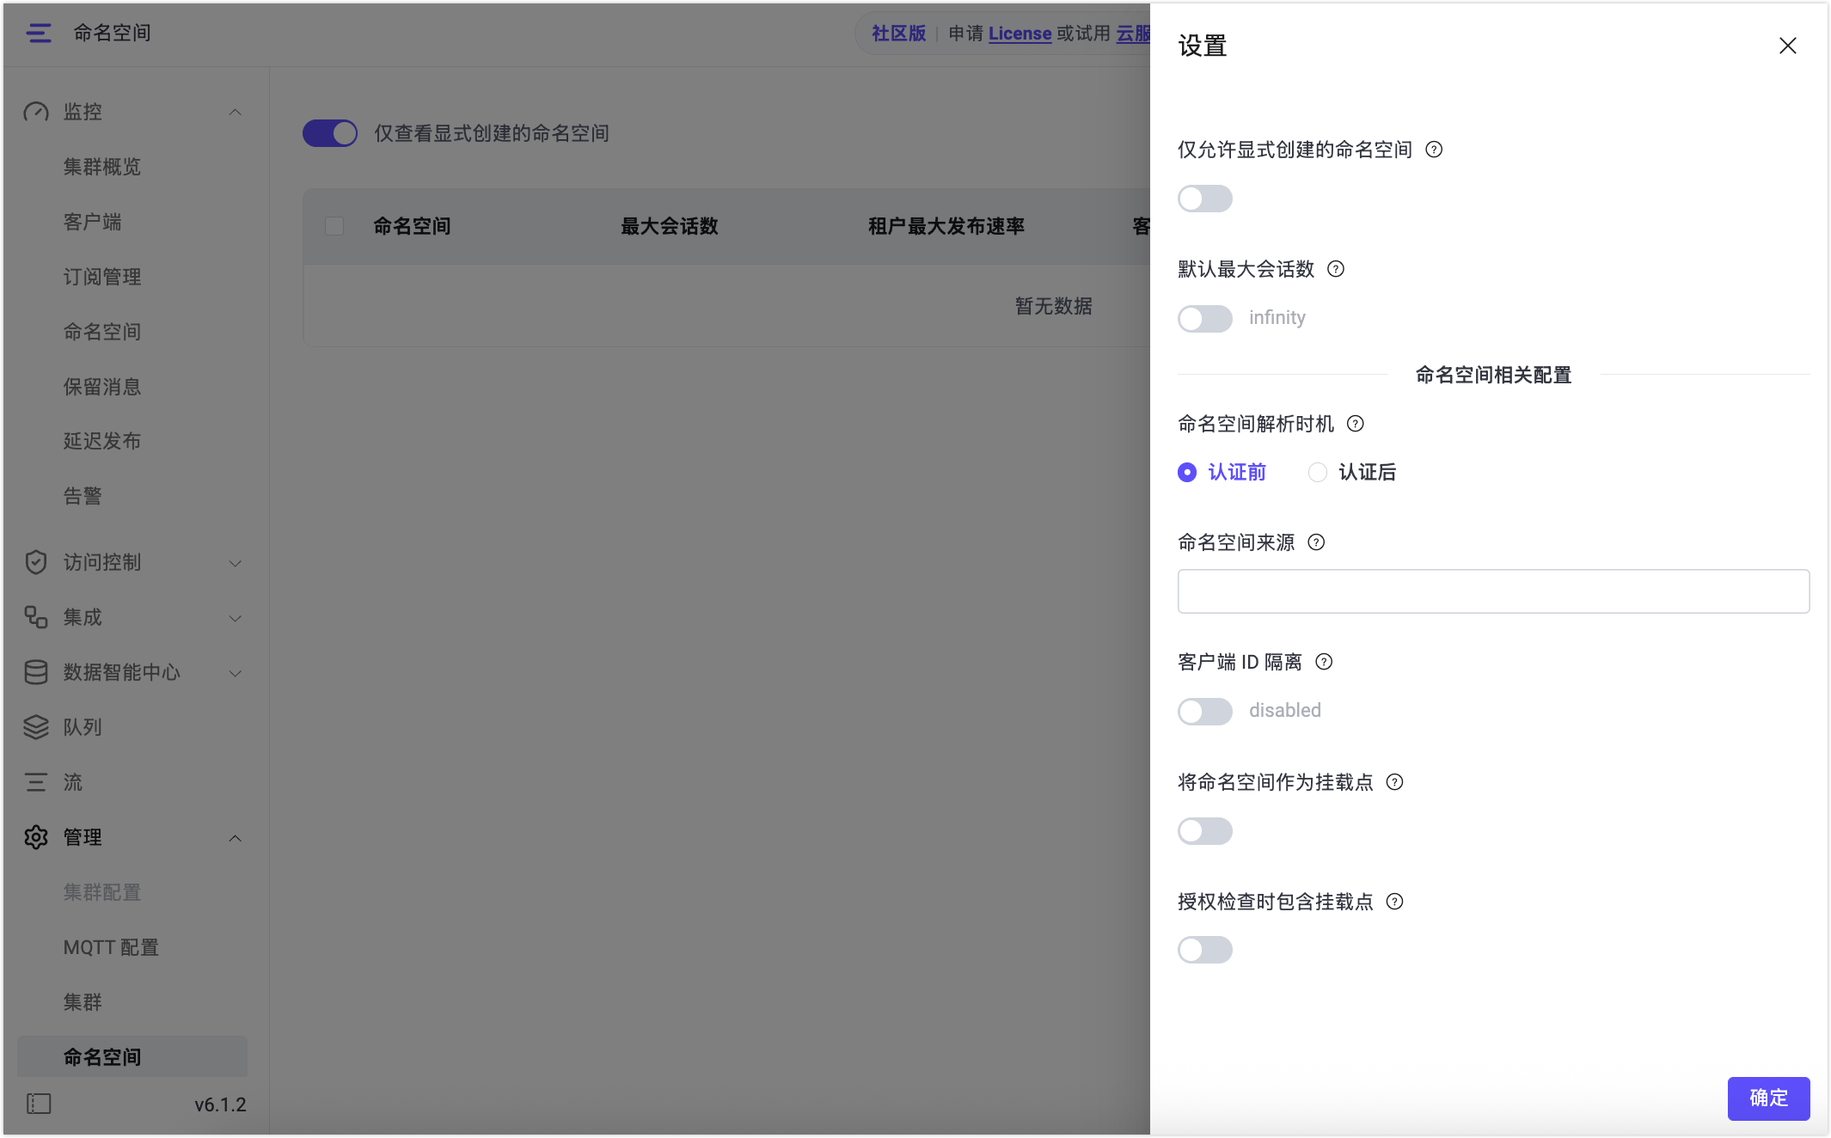
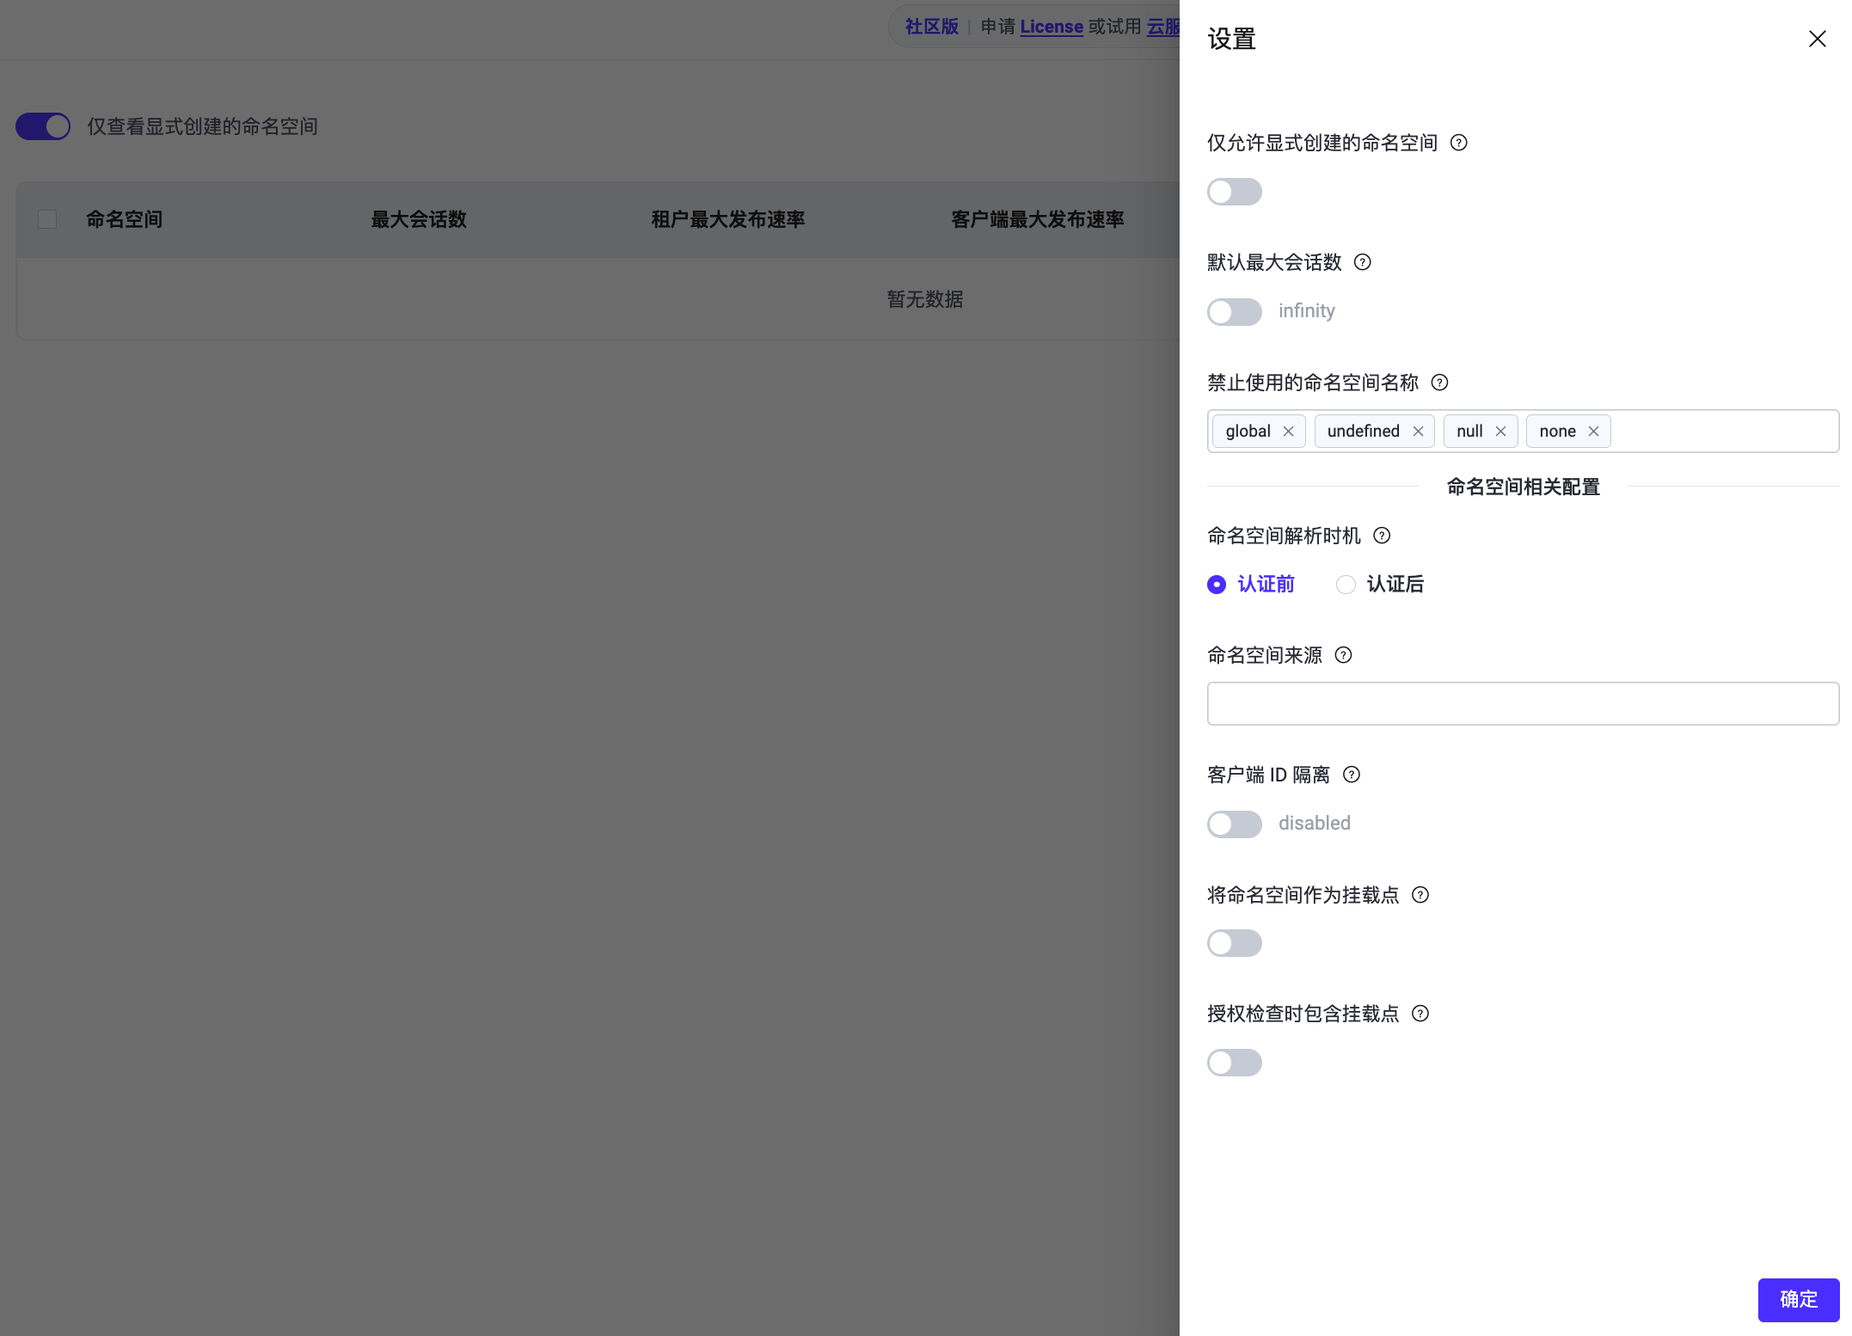
update(namespace): Add namespace name restrictions
https://github.com/emqx/emqx/pull/17626/files

diff --git a/en_US/multi-tenancy/namespace-global-settings.md b/en_US/multi-tenancy/namespace-global-settings.md
@@ -4,7 +4,7 @@ In EMQX 6.1, in addition to configuring individual namespace instances, a set of
 
 These settings apply cluster-wide and affect all namespaces and client connections. They are typically configured before enabling and using namespace-related features.
 
-Global namespace settings can be managed through the Dashboard at: **Management -> Namespaces -> Settings**.
+Global namespace settings can be managed through the Dashboard at: **Management** -> **Namespace** -> **Settings**.
 
 ::: tip Note
 
@@ -14,11 +14,11 @@ To enable the corresponding isolation capabilities, you must explicitly turn the
 
 :::
 
-![namespace_global_settings](./assets/namespace_global_settings.png)
+![Global namespace settings, including denied namespace names](./assets/namespace_global_settings.png)
 
 ## Allow Only Explicitly Created Namespaces
 
-This setting controls whether clients are allowed to connect only to namespaces that have been explicitly created.
+This setting controls whether clients are allowed to connect only to namespaces that have been explicitly created. It corresponds to `multi_tenancy.allow_only_managed_namespaces` in the configuration file.
 
 When this setting is enabled, EMQX validates the client’s namespace during the connection process and decides whether to allow or reject the connection.
 
@@ -31,7 +31,7 @@ When this setting is enabled, EMQX validates the client’s namespace during the
 
 ::: tip Note
 
-Before disabling this setting, ensure that **Take Namespace From** is properly configured and that all valid clients can successfully resolve a namespace. Otherwise, clients may be rejected because their namespace cannot be resolved.
+Before enabling this setting, ensure that **Take Namespace From** is properly configured and that all valid clients can successfully resolve an explicitly created namespace. Otherwise, clients may be rejected because their namespace cannot be resolved or has not been explicitly created.
 
 When **After Authentication** mode is selected under **When to Resolve Namespace**, pre-authentication namespace checks are skipped. The check against explicitly created namespaces runs after authentication completes instead.
 
@@ -48,6 +48,34 @@ This setting defines the default maximum number of concurrent sessions for newly
 
 This setting applies only to namespaces created after the configuration takes effect. Existing namespaces are not affected and must be updated individually if needed.
 
+## Denied Namespace Names
+
+Starting from EMQX 6.3.0, `multi_tenancy.deny_namespaces` specifies names that cannot be used as namespace identifiers. The restriction applies to Dashboard user roles, API keys, namespace creation and bulk imports through the management API, and client namespace assignment through `client_attrs.tns`.
+
+The default list is `["global", "undefined", "null", "none"]`. These names can be confused with internal identifiers in logs and Dashboard output.
+
+To edit the list in the Dashboard:
+
+1. Go to **Management** -> **Namespace** -> **Settings**.
+2. In **Denied Namespace Names**, add or remove names as needed. Clear all entries to disable the name restriction.
+3. Click **Confirm** to apply the changes.
+
+You can also configure the list in `etc/base.hocon`. The following example shows the default value:
+
+```hocon
+multi_tenancy.deny_namespaces = ["global", "undefined", "null", "none"]
+```
+
+A custom list replaces the default list. Include any default names you still want to deny. Set `multi_tenancy.deny_namespaces = []` to disable the name restriction. For configuration file precedence, see [Config Override Rules](../configuration/configuration.md#config-override-rules).
+
+EMQX rejects a client connection with `not_authorized` if its resolved namespace is in the list, even when **Allow Only Explicitly Created Namespaces** is disabled. This restriction does not prevent clients without a namespace from connecting when `multi_tenancy.allow_only_managed_namespaces = false`.
+
+::: warning Important Notice
+
+The default list rejects names accepted before EMQX 6.3.0. EMQX does not automatically migrate namespaces that use these names. Before upgrading, change the affected namespace names or adjust `multi_tenancy.deny_namespaces` to allow them.
+
+:::
+
 ## When to Resolve Namespace
 
 This setting controls at which point in the connection lifecycle EMQX resolves the client’s namespace identifier.
@@ -59,7 +87,7 @@ EMQX supports two modes, selectable via the **When to Resolve Namespace** radio 
 
 ::: tip
 
-These two modes are mutually exclusive. If **After Authentication** is configured, it takes precedence and overrides any pre-authentication `tns` value derived from `mqtt.client_attrs_init`.
+If **After Authentication** is configured, EMQX uses the post-authentication expression to assign the namespace. A pre-authentication `tns` value is not used as a fallback if that expression renders empty or fails. See [Empty or Failed Post-authentication Expressions](#empty-or-failed-post-authentication-expressions).
 
 :::
 
@@ -119,11 +147,14 @@ coalesce(client_attrs.tag, username)
 
 With this configuration, EMQX waits for the authentication chain to complete, then reads the `tag` value from the merged `client_attrs` and assigns it as the namespace identifier.
 
-::: tip
+### Empty or Failed Post-authentication Expressions
 
-If the expression renders to an empty string, the existing `tns` value (if any) is kept. If the expression produces an error, a warning is logged, and the client is treated as having no namespace.
+When `multi_tenancy.post_auth_tns_expression` is configured but evaluates to an empty string or fails, EMQX handles the connection as follows. Evaluation failures also produce a warning log.
 
-:::
+1. If the pre-authentication `client_attrs.tns` value is in `multi_tenancy.deny_namespaces`, EMQX rejects the connection with `not_authorized`.
+2. Otherwise, EMQX treats the client as having no namespace:
+   - If `multi_tenancy.allow_only_managed_namespaces = true`, EMQX rejects the connection with `not_authorized`.
+   - If `multi_tenancy.allow_only_managed_namespaces = false`, EMQX removes any pre-authentication `tns` value and allows the client to connect without a namespace.
 
 ## Client ID Isolation
 

diff --git a/zh_CN/multi-tenancy/namespace-global-settings.md b/zh_CN/multi-tenancy/namespace-global-settings.md
@@ -14,11 +14,11 @@
 
 :::
 
-![namespace_global_settings](./assets/namespace_global_settings.png)
+![全局命名空间设置，包括禁止使用的命名空间名称](./assets/namespace_global_settings.png)
 
 ## 仅允许显示创建的命名空间
 
-该配置用于控制客户端是否只能连接到已显式创建的命名空间。
+该配置用于控制客户端是否只能连接到已显式创建的命名空间，在配置文件中对应 `multi_tenancy.allow_only_managed_namespaces`。
 
 当启用该配置时，EMQX 会在客户端连接阶段对命名空间进行校验，并据此决定是否允许连接。
 
@@ -31,7 +31,7 @@
 
 ::: tip 提示
 
-关闭该配置前，请确保已正确配置**命名空间来源**，并且所有合法客户端都能够解析出有效的命名空间标识。否则，客户端可能因无法解析命名空间而被拒绝连接。
+启用该配置前，请确保已正确配置**命名空间来源**，并且所有合法客户端都能够解析出已显式创建的命名空间。否则，客户端可能因无法解析命名空间或命名空间尚未显式创建而被拒绝连接。
 
 当**命名空间解析时机**设置为**认证后**时，认证前的命名空间校验将被跳过，对显式创建命名空间的检查将在认证完成后执行。
 
@@ -46,6 +46,34 @@
 
 该配置仅对新创建的命名空间生效，不会影响已经存在的命名空间。已存在命名空间的最大会话数需在对应命名空间的配置中单独修改。
 
+## 禁止使用的命名空间名称
+
+从 EMQX 6.3.0 开始，`multi_tenancy.deny_namespaces` 用于指定不能用作命名空间标识的名称。该限制适用于 Dashboard 用户角色、API 密钥、通过管理 API 创建和批量导入命名空间，以及通过 `client_attrs.tns` 为客户端分配命名空间。
+
+默认列表为 `["global", "undefined", "null", "none"]`。这些名称在日志和 Dashboard 输出中容易与内部标识混淆。
+
+在 Dashboard 中编辑该列表：
+
+1. 进入**管理** -> **命名空间** -> **设置**。
+2. 在**禁止使用的命名空间名称**中，按需添加或移除名称。清空所有条目可关闭名称限制。
+3. 点击**确定**应用更改。
+
+您也可以在 `etc/base.hocon` 中配置该列表。以下示例使用默认值：
+
+```hocon
+multi_tenancy.deny_namespaces = ["global", "undefined", "null", "none"]
+```
+
+自定义列表会替换默认列表。如果仍需禁止某些默认名称，请将其保留在列表中。设置 `multi_tenancy.deny_namespaces = []` 可关闭名称限制。配置文件的优先级请参见[配置覆盖规则](../configuration/configuration.md#配置覆盖规则)。
+
+如果客户端解析出的命名空间在该列表中，EMQX 将拒绝连接并返回 `not_authorized`，即使已关闭**仅允许显式创建的命名空间**也是如此。当 `multi_tenancy.allow_only_managed_namespaces = false` 时，该名称限制不会阻止未分配命名空间的客户端连接。
+
+::: warning 重要提示
+
+默认列表会禁止使用 EMQX 6.3.0 之前允许的名称。EMQX 不会自动迁移使用这些名称的命名空间。升级前，请更换受影响的命名空间名称，或调整 `multi_tenancy.deny_namespaces` 以允许使用这些名称。
+
+:::
+
 ## 命名空间解析时机
 
 该设置控制 EMQX 在连接生命周期的哪个阶段解析客户端的命名空间标识。
@@ -57,7 +85,7 @@ EMQX 支持两种模式，可在 Dashboard 中通过**命名空间解析时机**
 
 ::: tip
 
-两种模式互斥。若配置了**认证后**模式，则以该模式的求值结果为准，`mqtt.client_attrs_init` 所设置的预认证 `tns` 值将被覆盖。
+若配置了**认证后**模式，EMQX 将使用认证后表达式分配命名空间。当该表达式求值为空或出错时，不会回退到认证前的 `tns` 值。详情请参见[认证后表达式为空或求值出错](#认证后表达式为空或求值出错)。
 
 :::
 
@@ -117,11 +145,14 @@ coalesce(client_attrs.tag, username)
 
 在该配置下，EMQX 等待认证链执行完毕后，从合并后的 `client_attrs` 中读取 `tag` 值，并将其赋值为命名空间标识。
 
-::: tip
+### 认证后表达式为空或求值出错
 
-若表达式的求值结果为空字符串，则保留已有的 `tns` 值（如有）。若表达式求值出错，则记录一条警告日志，并将该客户端视为无命名空间处理。
+配置 `multi_tenancy.post_auth_tns_expression` 后，如果表达式求值为空字符串或出错，EMQX 将按以下规则处理连接。求值出错时还会记录一条警告日志。
 
-:::
+1. 如果认证前的 `client_attrs.tns` 值在 `multi_tenancy.deny_namespaces` 列表中，EMQX 将拒绝连接并返回 `not_authorized`。
+2. 否则，EMQX 将客户端视为未分配命名空间：
+   - 当 `multi_tenancy.allow_only_managed_namespaces = true` 时，EMQX 拒绝连接并返回 `not_authorized`。
+   - 当 `multi_tenancy.allow_only_managed_namespaces = false` 时，EMQX 清除认证前的 `tns` 值（如有），允许客户端以无命名空间状态连接。
 
 ## 客户端 ID 隔离
 

diff --git a/zh_CN/multi-tenancy/create-namespace.md b/zh_CN/multi-tenancy/create-namespace.md
@@ -2,6 +2,8 @@
 
 创建命名空间有两种方式：显式创建和自动创建。通过这两种方式，您可以根据不同的需求灵活选择创建命名空间的方式。显式创建适用于需要严格控制的环境，而自动创建则适用于动态环境，减少了手动干预。
 
+从 EMQX 6.3.0 开始，这两种创建方式均不能使用 `multi_tenancy.deny_namespaces` 列表中的名称。默认列表和配置方法请参见[禁止使用的命名空间名称](./namespace-global-settings.md#禁止使用的命名空间名称)。
+
 ## 显式创建命名空间
 
 通过 Dashboard 或 REST API，您可以手动显式创建命名空间。显式创建的命名空间可以被直接管理、编辑和删除。
@@ -29,11 +31,13 @@ POST /mt/ns/<namespace>
 
 将 `<namespace>` 替换为所需的命名空间 ID，请求体为空。
 
+如果名称在 `multi_tenancy.deny_namespaces` 列表中，EMQX 将拒绝请求并返回 HTTP 400。
+
 ## 自动创建命名空间
 
 在 EMQX 中，命名空间也可以在客户端连接时自动创建。
 
-自动创建命名空间并非直接基于 `client_attrs.tns` 字段本身，而是依赖于**[命名空间来源](./namespace-global-settings.md#命名空间来源)**配置。当客户端连接到 EMQX 时，系统会根据已配置的命名空间来源规则，从客户端连接信息中生成 `tns`（租户命名空间）属性；如果对应的命名空间尚不存在，EMQX 将自动创建该命名空间。
+自动创建命名空间并非直接基于 `client_attrs.tns` 字段本身，而是依赖于**[命名空间来源](./namespace-global-settings.md#命名空间来源)**配置。当客户端连接到 EMQX 时，系统会根据已配置的命名空间来源规则，从客户端连接信息中生成 `tns`（租户命名空间）属性。如果解析出的名称在 `multi_tenancy.deny_namespaces` 列表中，EMQX 将拒绝连接并返回 `not_authorized`。否则，在允许自动创建且对应命名空间不存在时，EMQX 将自动创建该命名空间。
 
 **使用场景**：该方式适用于客户端连接来源可信、命名空间标识可从连接元数据中稳定提取，并且需要为大量租户或业务单元动态创建命名空间的场景。
 

diff --git a/en_US/multi-tenancy/create-namespace.md b/en_US/multi-tenancy/create-namespace.md
@@ -5,6 +5,8 @@ There are two ways to create a namespace in EMQX: explicit creation and automati
 - **Explicit creation** is suitable for tightly controlled environments.
 - **Automatic creation** is better for dynamic, large-scale deployments that benefit from reduced manual intervention.
 
+Starting from EMQX 6.3.0, names listed in `multi_tenancy.deny_namespaces` cannot be used for either creation method. For the default list and how to configure it, see [Denied Namespace Names](./namespace-global-settings.md#denied-namespace-names).
+
 ## Explicitly Create a Namespace
 
 You can manually create namespaces through the Dashboard or the REST API. Explicitly created namespaces can be directly managed, edited, and deleted.
@@ -29,13 +31,15 @@ POST /mt/ns/<namespace>
 
 Replace `<namespace>` with the desired namespace ID. No request body is required.
 
+If the name is in `multi_tenancy.deny_namespaces`, EMQX rejects the request with HTTP 400.
+
 ## Automatically Create a Namespace
 
 In EMQX, namespaces can also be created automatically when clients connect.
 
 Automatic namespace creation is not based directly on the `client_attrs.tns` field itself, but instead depends on the **[Take Namespace From](./namespace-global-settings)** configuration.
 
-When a client connects, EMQX evaluates the configured **Take Namespace From** rule to derive the `tns` (tenant namespace) attribute from the client connection metadata. If the corresponding namespace does not already exist, EMQX automatically creates it.
+When a client connects, EMQX evaluates the configured **Take Namespace From** rule to derive the `tns` (tenant namespace) attribute from the client connection metadata. If the resolved name is in `multi_tenancy.deny_namespaces`, EMQX rejects the connection with `not_authorized`. Otherwise, if automatic creation is allowed and the corresponding namespace does not exist, EMQX automatically creates it.
 
 **Typical use cases**: This approach is suitable when client connections originate from trusted sources, the namespace identifier can be reliably derived from connection metadata, and namespaces need to be created dynamically for a large number of tenants or business units.
 

diff --git a/zh_CN/admin/api.md b/zh_CN/admin/api.md
@@ -321,6 +321,10 @@ curl -X POST "http://localhost:18083/api/v5/api_key" \
 
 以上两种方式均受支持。如果请求同时使用两种方式，二者指定的命名空间必须一致。如果命名空间不一致或 `namespace` 为空，EMQX 返回 HTTP 400。API 密钥创建后不能更改所属命名空间。
 
+从 EMQX 6.3.0 开始，以上两种方式均不能使用 `multi_tenancy.deny_namespaces` 列表中的命名空间名称。配置方法请参见[禁止使用的命名空间名称](../multi-tenancy/namespace-global-settings.md#禁止使用的命名空间名称)。
+
+创建全局 API 密钥时，应省略 `namespace` 并使用不含命名空间前缀的角色。将 `namespace` 设置为字符串 `"global"` 并不表示选择全局范围。
+
 #### Bootstrap 文件
 
 您也可以通过 bootstrap 文件的方式创建 API 密钥。在 `base.hocon` 配置文件中添加以下配置，指定文件位置：

diff --git a/en_US/admin/api.md b/en_US/admin/api.md
@@ -325,6 +325,10 @@ You can specify the namespace in either of these ways:
 
 Both forms remain supported. If a request contains both forms, the namespaces must match. EMQX returns HTTP 400 if they differ or if `namespace` is empty. An API key's namespace cannot be changed after the key is created.
 
+Starting from EMQX 6.3.0, neither form can use a namespace listed in `multi_tenancy.deny_namespaces`. For configuration details, see [Denied Namespace Names](../multi-tenancy/namespace-global-settings.md#denied-namespace-names).
+
+To create a global API key, omit `namespace` and use a role without a namespace prefix. Setting `namespace` to the string `"global"` does not select the global scope.
+
 #### Bootstrap File
 
 You can also create API keys using the bootstrap file method. Add the following configuration file to specify the file location:

diff --git a/zh_CN/dashboard/system.md b/zh_CN/dashboard/system.md
@@ -157,6 +157,8 @@ ns:<NAMESPACE>::<ROLE>
 - `ns:namespace_01::administrator`
 - `ns:namespace_01::viewer`
 
+从 EMQX 6.3.0 开始，命名空间角色中的命名空间名称不能在 `multi_tenancy.deny_namespaces` 列表中。EMQX 会拒绝使用禁止名称的角色。配置方法请参见[禁止使用的命名空间名称](../multi-tenancy/namespace-global-settings.md#禁止使用的命名空间名称)。
+
 #### 命名空间用户的行为说明
 
 - **资源作用域限制**：命名空间用户只能查看和管理其所属命名空间下的资源，包括连接器、动作、数据源、规则等支持命名空间的模块。

diff --git a/en_US/dashboard/system.md b/en_US/dashboard/system.md
@@ -156,6 +156,8 @@ For example:
 - `ns:namespace_01::administrator`
 - `ns:namespace_01::viewer`
 
+Starting from EMQX 6.3.0, the namespace in a namespaced role must not be listed in `multi_tenancy.deny_namespaces`. EMQX rejects roles that use a denied name. For configuration details, see [Denied Namespace Names](../multi-tenancy/namespace-global-settings.md#denied-namespace-names).
+
 #### Behavior of Namespaced Users
 
 - **Scoped resources**: Namespaced users can view and manage only the resources within their assigned namespace, such as Connectors, Actions, Sources, Rules, and other namespace-aware modules.
